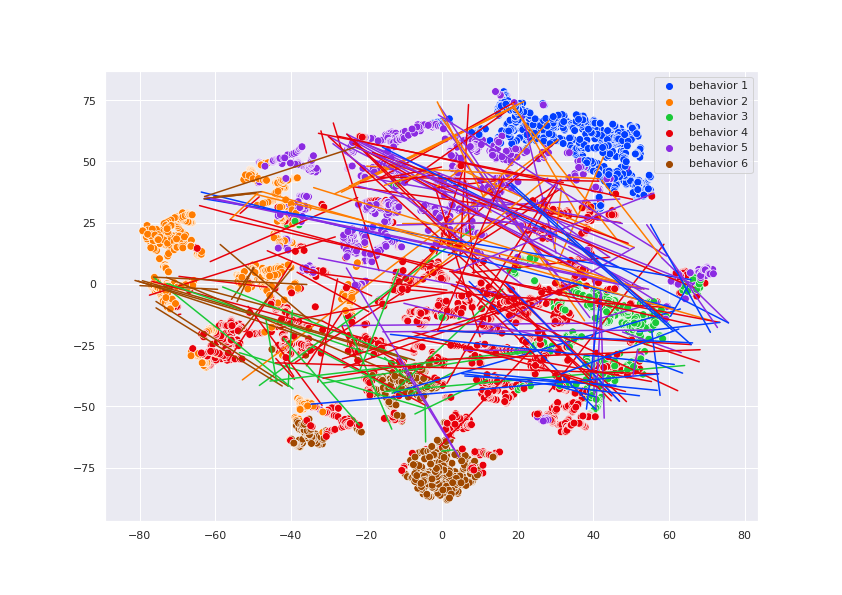
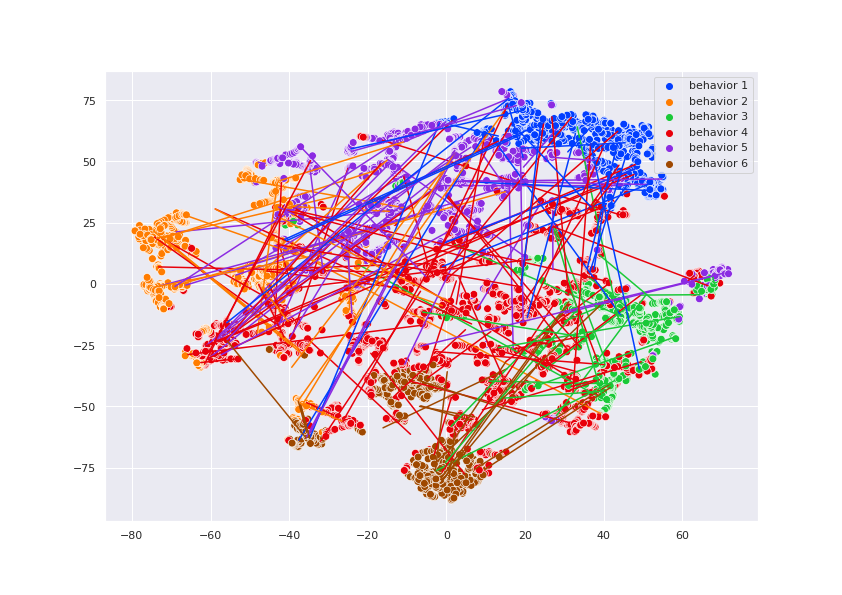
Update SSE-BD Remap

diff --git a/cirtorch/examples/embedding_analysis.py b/cirtorch/examples/embedding_analysis.py
@@ -368,7 +368,25 @@ for id_emb, N_emb in enumerate(embs):
         
     if (cfg.REMAP):
         # WE ALSO PROVIDE THE PROBABILITIES FOR CLUSTER ASSIGMENT IN probs_embed.mat
-        cidx_embed=sio.loadmat(os.path.join(cfg.result_dir, folder,'behaviors_emb.mat'))['behavior'].T-1
+        cidx_embed=sio.loadmat(os.path.join(cfg.result_dir, folder,'behaviors_emb.mat'))['behavior'].ravel()-1
+        # WE DEMONSTRATE THAT WE OBTAIN THE BEHAVIORS FROM THE PAPER WITH A GMM 
+        # Extract the train samples
+        cidx_embed_train=cidx_embed[np.in1d(group,np.array(cfg.train_groups))]
+        mus=np.zeros((cfg.K_selected,all_data_norm.shape[1]),dtype='float')
+        precs=np.zeros((cfg.K_selected,all_data_norm.shape[1],all_data_norm.shape[1]),dtype='float')
+        pis=np.zeros((cfg.K_selected,),dtype='float')
+        for k in range(cfg.K_selected):
+            mus[k,:]=np.mean(train_data_norm[cidx_embed_train==k,:],axis=0)
+            precs[k,...]=np.linalg.inv(np.cov(train_data_norm[cidx_embed_train==k,:].T))
+            pis[k]=np.sum(cidx_embed_train==k)/cidx_embed_train.size
+            
+        cluster_agg=GaussianMixture(n_components=cfg.K_selected,n_init=10,random_state=cfg.SEED,means_init=mus, precisions_init=precs, weights_init=pis)
+        cluster_agg.fit(train_data_norm)
+        cidx_embed_train=cluster_agg.predict(train_data_norm)
+        cidx_embed_test=cluster_agg.predict(test_data_norm)
+        new_cidx_embed=cluster_agg.predict(all_data_norm)
+        print('Coincidence between the new behaviors and behaviors from the paper')
+        print(np.sum(new_cidx_embed==cidx_embed)/np.size(cidx_embed))
     else:
         cluster_agg=GaussianMixture(n_components=cfg.K_selected,n_init=10,random_state=cfg.SEED)
         cluster_agg.fit(train_data_norm)
@@ -607,6 +625,9 @@ for id_emb, N_emb in enumerate(embs):
     
     id_sort=np.argsort(neutrophils_by_trajectory,axis=0).ravel()
     neutrophils_by_trajectory=neutrophils_by_trajectory[id_sort]
+    if (cfg.REMAP):
+        X_embedded=X_embedded[:,[1,0]]
+        X_embedded[:,0]=-X_embedded[:,0]
     X_embedded=X_embedded[id_sort,:]
     y_t=cidx_embed[id_sort].copy()+1
     id_neut=np.unique(neutrophils_by_trajectory)
